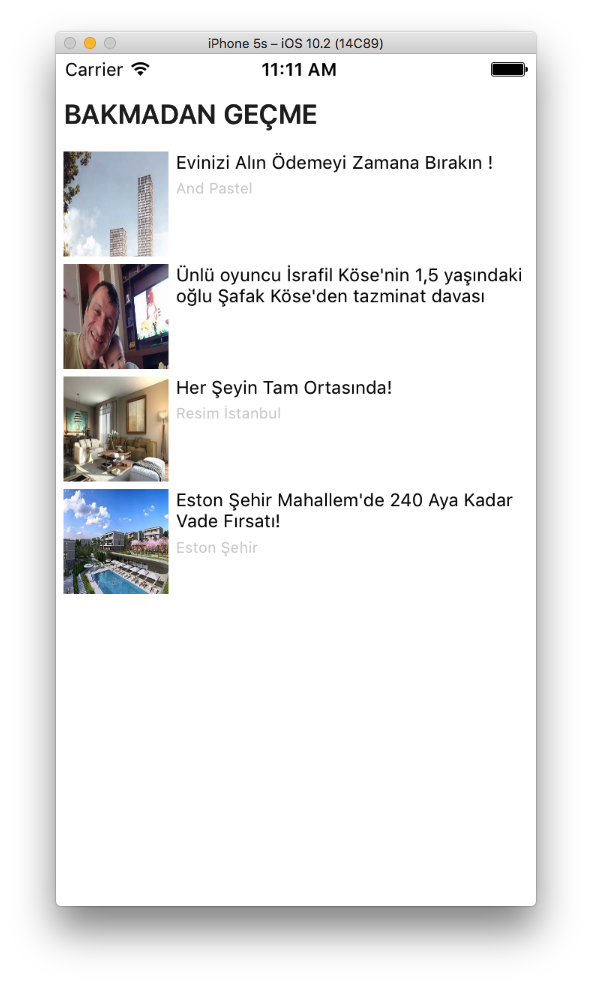
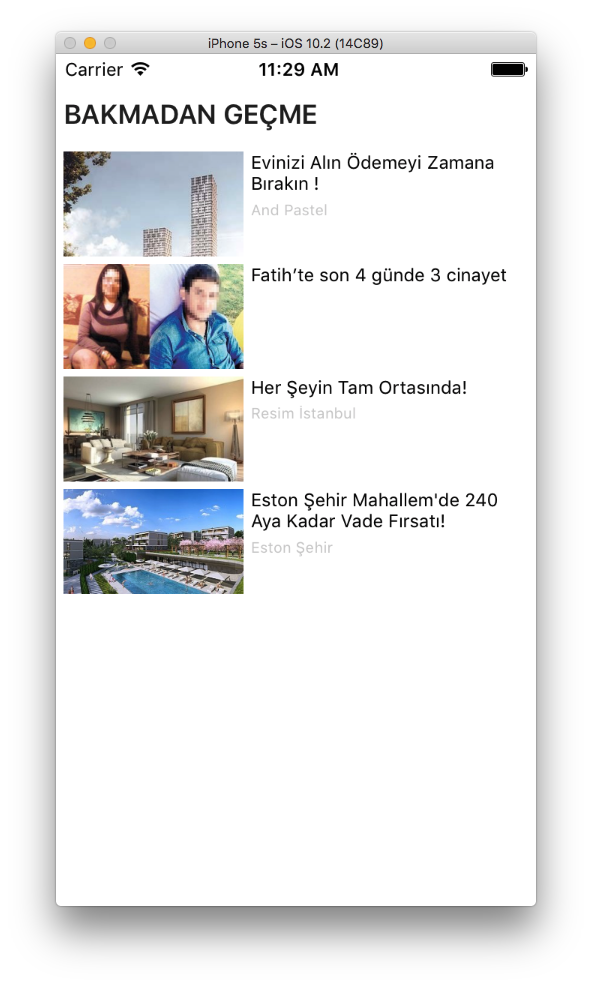
ss changed

Changed region(s): [[0.0912, 0.1521, 0.8818, 0.6085], [0.4257, 0.0609, 0.5777, 0.0913]]

diff --git a/EngageyaIOSSDK/Classes/EngageyaIOSSDK.swift b/EngageyaIOSSDK/Classes/EngageyaIOSSDK.swift
@@ -112,24 +112,15 @@ public class EngageyaIOSSDK : NSObject , UITableViewDelegate , UITableViewDataSo
                 return
             }
             
-            /// optionals
-            if let imageWidth = idCollection["imageWidth"] as? Int{
-                EngageyaTableViewCell.imageWidth = Double(imageWidth)
-            }
-            if let imageHeight = idCollection["imageHeight"] as? Int {
-                EngageyaTableViewCell.imageHeight = Double(imageHeight)
-            }
+            // set optionals if exist
+            self.checkOptionals(idCollection: idCollection)
             
-            if let fontSize = idCollection["fontSize"] as? Int {
-                EngageyaTableViewCell.fontSize = fontSize
-            }
             
-            if let tilePadding = idCollection["tilePadding"] as? Int {
-                EngageyaTableViewCell.tilePadding = tilePadding
-            }
-            
+            // set data array
             self.items = widget.boxes!
             
+            
+            // create tableView and its holder
             let holderView:UIView = UIView(frame: UIScreen.main.bounds)
             let rect = CGRect(x: 0.0, y: 40.0, width: Double(UIScreen.main.bounds.width), height: Double(self.items.count) * EngageyaTableViewCell.imageHeight + Double(self.items.count) * Double(EngageyaTableViewCell.tilePadding))
             self.tableView = UITableView(frame: rect, style: .plain)
@@ -138,7 +129,6 @@ public class EngageyaIOSSDK : NSObject , UITableViewDelegate , UITableViewDataSo
             self.tableView?.delegate = self
             self.tableView?.dataSource = self
             
-            
             holderView.addSubview(self.titleLabel)
             holderView.addSubview(self.tableView!)
 
@@ -146,6 +136,24 @@ public class EngageyaIOSSDK : NSObject , UITableViewDelegate , UITableViewDataSo
                 self.titleLabel.text = widget.widgetTitle
                 compliation(holderView)
             }
+        }
+    }
+    
+    public func checkOptionals(idCollection:[String:Any]){
+        /// optionals
+        if let imageWidth = idCollection["imageWidth"] as? Int{
+            EngageyaTableViewCell.imageWidth = Double(imageWidth)
+        }
+        if let imageHeight = idCollection["imageHeight"] as? Int {
+            EngageyaTableViewCell.imageHeight = Double(imageHeight)
+        }
+        
+        if let fontSize = idCollection["fontSize"] as? Int {
+            EngageyaTableViewCell.fontSize = fontSize
+        }
+        
+        if let tilePadding = idCollection["tilePadding"] as? Int {
+            EngageyaTableViewCell.tilePadding = tilePadding
         }
     }
     

diff --git a/Example/EngageyaIOSSDK/ViewController.swift b/Example/EngageyaIOSSDK/ViewController.swift
@@ -27,9 +27,10 @@ class ViewController: UIViewController, UITableViewDelegate , UIWebViewDelegate 
             "web_id" : "127410",
             "wid_id" : "92644",
             "url" : "http://www.haberturk.com/spor/futbol/haber/938402-ultraslandan-tffye-cikarma",
-            "imageWidth": 70,
+            "imageWidth": 120,
             "imageHeight": 70,
-            "fontSize": 12,             "tilePadding": 5
+            "fontSize": 12,
+            "tilePadding": 5
         ]
         
         self.engageya.createListView(idCollection: appId) { (widget:UIView) in
